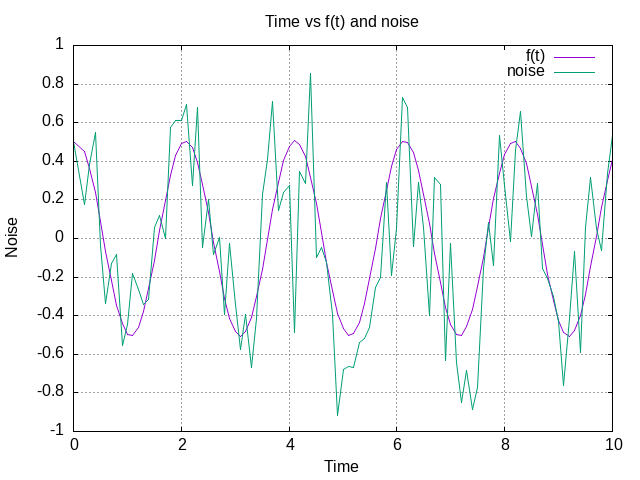
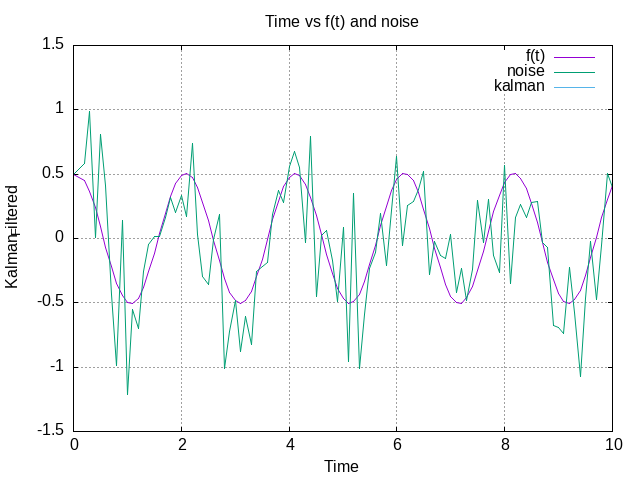
Does Not Work

diff --git a/simulator.cpp b/simulator.cpp
@@ -117,6 +117,10 @@ std::ostream &operator<<(std::ostream &os, Sensor s) {
 }
 
 
+// enum To {
+//   ToPredict,
+//   ToUpdate,
+// }
 
 class KalmanFilter {
 public:
@@ -145,7 +149,8 @@ public:
   int time = 0;
   float period = 0.1f;
 
-  
+  // To todo;
+
   KalmanFilter() {
     state(0,0) = 0.5f;
     state(1,0) = 0.0f;
@@ -161,6 +166,8 @@ public:
     W << 0.0, 0.0, 0.0, 0.0;
     V << 0.09, 0.01, 0.01, 0.3;
 
+    // todo = ToPredict;
+
   };
 
   void popolate_model_jacobian() {
@@ -168,11 +175,13 @@ public:
   }
 
   void popolate_sensor_jacobian() {
-    Jacobian_Model << 1.0f, 0.0f, 0.0f, 1.0f;
+    Jacobian_Sensor << 1.0f, 0.0f, 0.0f, 1.0f;
   }
 
   void predict() {
-    void popolate_model_jacobian();
+    // if (todo != ToPredict) return;
+
+    popolate_model_jacobian();
 
     buffer(0,0) = state(0,0) + period*state(1,0);
     buffer(1,0) = state(1,0) + period*9.81*sin(state(0,0));
@@ -181,11 +190,32 @@ public:
 
     bufferm = Jacobian_Model*state_cov*Jacobian_Model.transpose() + W;
     state_cov = bufferm;
-
+    //todo = ToUpdate;
   }
   
   void update(Sensor s) {
-    
+    //    if (todo != ToUpdate) return;
+
+    popolate_sensor_jacobian();
+
+
+    Eigen::Matrix<float, 2, 1> result;
+    result << s.th, s.w;
+
+    Eigen::Matrix<float, 2, 1> ybar = result - state; // works only now because identity matrix
+
+    Eigen::Matrix<float, 2, 2> S = (Jacobian_Sensor * state_cov * Jacobian_Sensor.transpose()) + V;
+
+    Eigen::Matrix<float, 2, 2> K = state_cov * Jacobian_Sensor.transpose() * S;
+
+    state = state + K*ybar;
+
+    Eigen::Matrix<float, 2, 2> I;
+    I << 1.0, 0.0, 0.0, 1.0;
+
+    state_cov = (I - K*Jacobian_Sensor)*state_cov;
+
+    //todo = ToPredict;
   }
  
 
@@ -194,7 +224,7 @@ public:
 int main() {
   Pendulum P;
   Sensor S;
-
+  KalmanFilter F;
 
  
 
@@ -204,9 +234,13 @@ int main() {
 
   for(int i = 0; i < 100 ; i++) {
     P.tick();
+    F.predict();
     fs << P;
     S.set_data(P);
-    fs << S << std::endl;
+    fs << S;
+    F.update(S);
+    fs << F.state(0,0);
+    fs << std::endl;
   }
 
 
